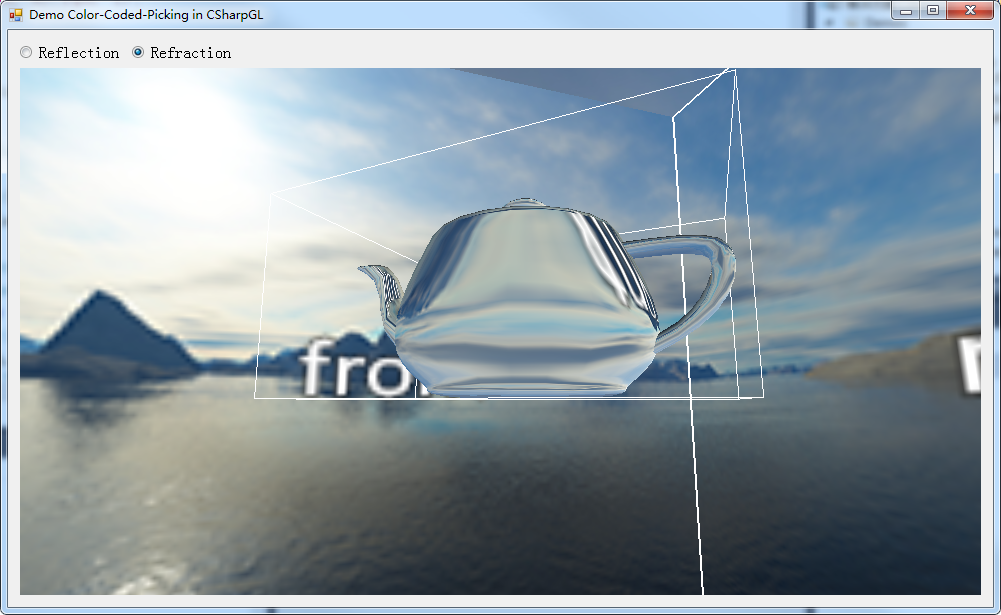
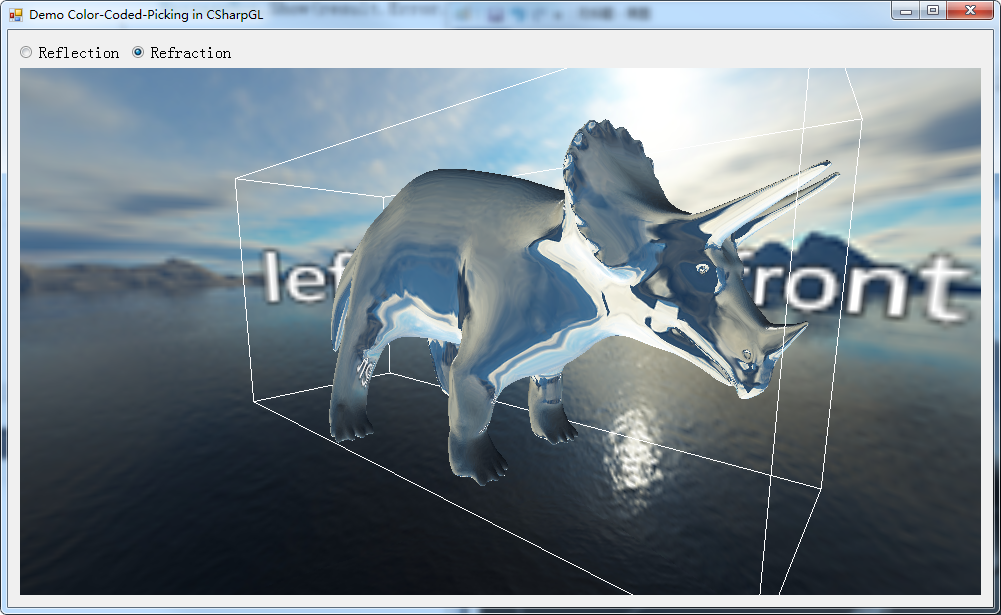
triceratops for environment mapping

diff --git a/Demos/EnvironmentMapping/FormMain.cs b/Demos/EnvironmentMapping/FormMain.cs
@@ -15,7 +15,7 @@ namespace EnvironmentMapping
         private Scene scene;
         private ActionList actionList;
         private SkyboxNode skybox;
-        private EnvironmentMappingTeapotNode teapot;
+        private EnvironmentMappingNode environmentMappingNode;
         private LegacyTriangleNode triangleTip;
         private LegacyQuadNode quadTip;
         private PickingAction pickingAction;
@@ -91,12 +91,29 @@ namespace EnvironmentMapping
             var center = new vec3(0, 0, 0);
             var up = new vec3(0, 1, 0);
             var camera = new Camera(position, center, up, CameraType.Perspecitive, this.winGLCanvas1.Width, this.winGLCanvas1.Height);
+
             var totalBmp = new Bitmap(@"cubemaps_skybox.png");
             this.skybox = SkyboxNode.Create(totalBmp); this.skybox.Scale *= 60;
-            this.teapot = EnvironmentMappingTeapotNode.Create(this.skybox.SkyboxTexture);
-            this.teapot.Scale *= 3;
-            teapot.Children.Add(new LegacyBoundingBoxNode(teapot.ModelSize));
-            var group = new GroupNode(this.teapot, this.skybox);
+            string objFilename = "triceratops.obj_";
+            var parser = new ObjVNFParser();
+            ObjVNFResult result = parser.Parse(objFilename);
+            if (result.Error != null)
+            {
+                MessageBox.Show(result.Error.ToString());
+            }
+            else
+            {
+                var model = new ObjVNF(result.Mesh);
+                var node = EnvironmentMappingNode.Create(
+                    this.skybox.SkyboxTexture,
+                    model, ObjVNF.strPosition, ObjVNF.strNormal);
+                node.ModelSize = model.GetSize();
+                node.Scale *= 3;
+                node.Children.Add(new LegacyBoundingBoxNode(node.ModelSize));
+                this.environmentMappingNode = node;
+            }
+
+            var group = new GroupNode(this.environmentMappingNode, this.skybox);
 
             this.scene = new Scene(camera, this.winGLCanvas1)
             {
@@ -131,7 +148,7 @@ namespace EnvironmentMapping
 
         private void timer1_Tick(object sender, EventArgs e)
         {
-            IWorldSpace node = this.teapot;
+            IWorldSpace node = this.environmentMappingNode;
             if (node != null)
             {
                 node.RotationAngle += 1;
@@ -142,7 +159,7 @@ namespace EnvironmentMapping
         {
             if (rdoReflection.Checked)
             {
-                this.teapot.Method = EnvironmentMappingTeapotNode.RenderMethod.Reflection;
+                this.environmentMappingNode.Method = EnvironmentMappingNode.RenderMethod.Reflection;
             }
         }
 
@@ -150,7 +167,7 @@ namespace EnvironmentMapping
         {
             if (rdoRefraction.Checked)
             {
-                this.teapot.Method = EnvironmentMappingTeapotNode.RenderMethod.Refraction;
+                this.environmentMappingNode.Method = EnvironmentMappingNode.RenderMethod.Refraction;
             }
         }
     }

diff --git a/Demos/EnvironmentMapping/EnvironmentMappingNode.cs b/Demos/EnvironmentMapping/EnvironmentMappingNode.cs
@@ -6,7 +6,7 @@ using CSharpGL;
 
 namespace EnvironmentMapping
 {
-    class EnvironmentMappingTeapotNode : PickableNode
+    class EnvironmentMappingNode : PickableNode
     {
         private const string inPosition = "aPos";
         private const string inNormal = "aNormal";
@@ -73,17 +73,17 @@ void main()
 
         private Texture skyboxTexture;
 
-        public static EnvironmentMappingTeapotNode Create(Texture skybox)
+        public static EnvironmentMappingNode Create(Texture skybox,
+            IBufferSource model, string position, string normal)
         {
-            var model = new Teapot();
             RenderUnitBuilder reflectBuilder, refractBuilder;
             {
                 var vs = new VertexShader(vertexCode, inPosition, inNormal);
                 var fs = new FragmentShader(relectFragmentCode);
                 var provider = new ShaderArray(vs, fs);
                 var map = new AttributeMap();
-                map.Add(inPosition, Teapot.strPosition);
-                map.Add(inNormal, Teapot.strNormal);
+                map.Add(inPosition, position);
+                map.Add(inNormal, normal);
                 reflectBuilder = new RenderUnitBuilder(provider, map);
             }
             {
@@ -91,19 +91,19 @@ void main()
                 var fs = new FragmentShader(refractFragmentCode);
                 var provider = new ShaderArray(vs, fs);
                 var map = new AttributeMap();
-                map.Add(inPosition, Teapot.strPosition);
-                map.Add(inNormal, Teapot.strNormal);
+                map.Add(inPosition, position);
+                map.Add(inNormal, normal);
                 refractBuilder = new RenderUnitBuilder(provider, map);
             }
-            var node = new EnvironmentMappingTeapotNode(model, Teapot.strPosition, reflectBuilder, refractBuilder);
-            node.ModelSize = model.GetModelSize();
+            var node = new EnvironmentMappingNode(model, Teapot.strPosition, reflectBuilder, refractBuilder);
             node.skyboxTexture = skybox;
+
             node.Initialize();
 
             return node;
         }
 
-        private EnvironmentMappingTeapotNode(IBufferSource model, string positionNameInIBufferSource, params RenderUnitBuilder[] builders)
+        private EnvironmentMappingNode(IBufferSource model, string positionNameInIBufferSource, params RenderUnitBuilder[] builders)
             : base(model, positionNameInIBufferSource, builders)
         { }
 
